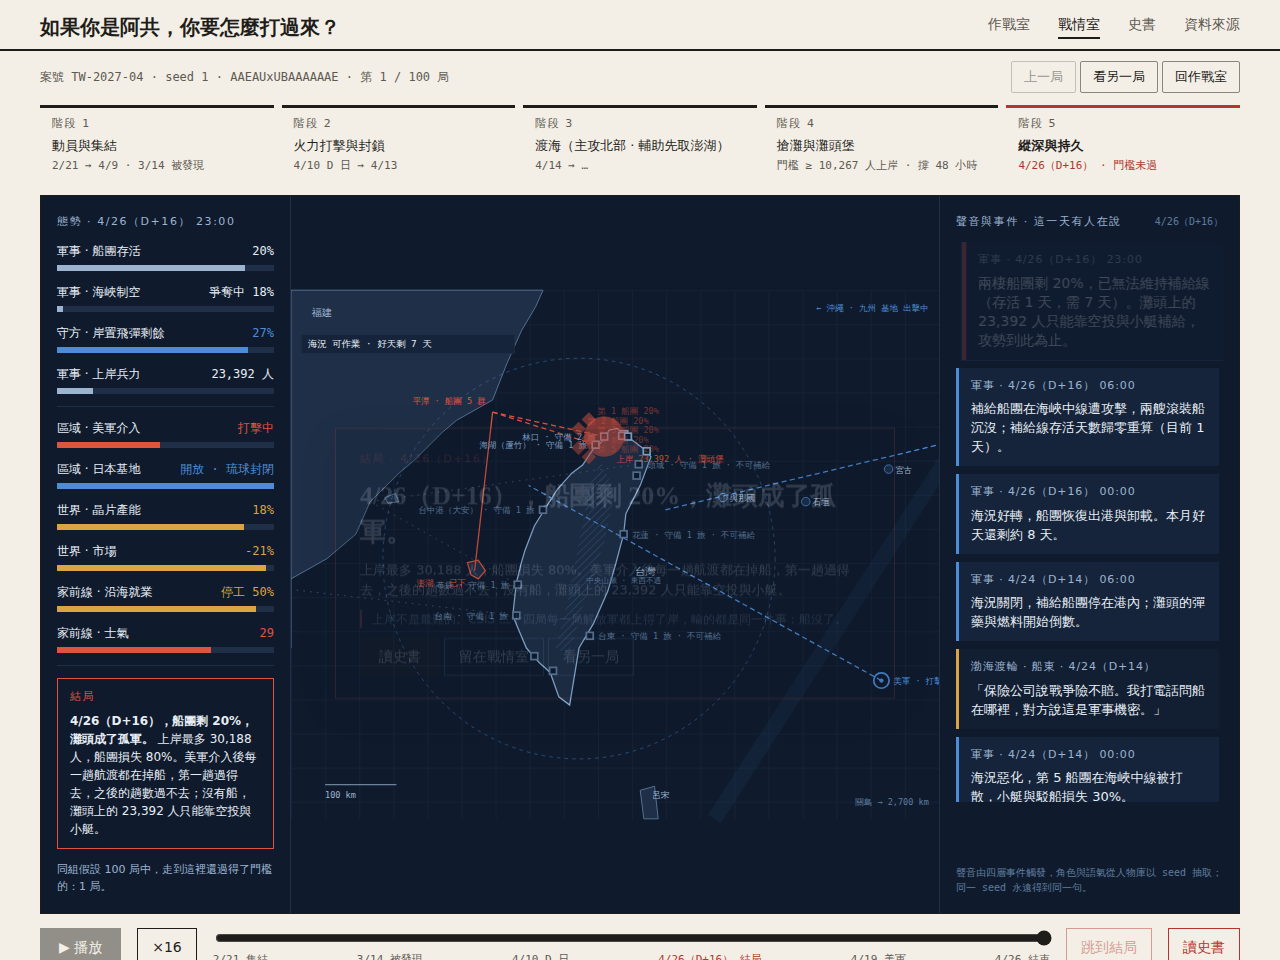
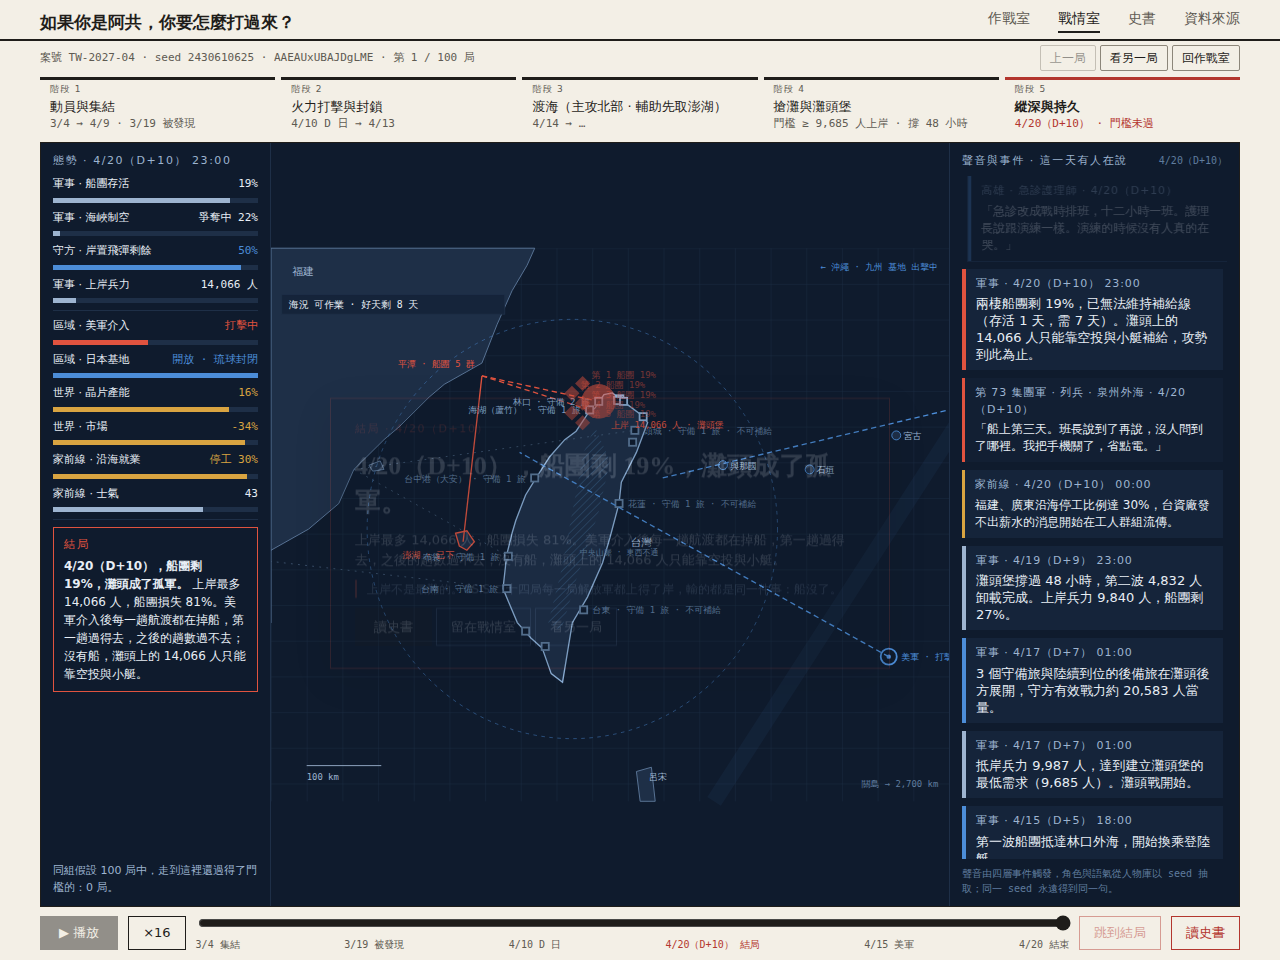
戰情室一屏放下、手機取捨；每次下令換一組 seed
- 桌機：戰情室頁面固定視窗高、不捲動，儀表、地圖、事件流、時間軸同時可見；頁尾隱藏、間距縮小；視窗高度不足 760 時收起階段列與案號列
- 手機：單欄，地圖優先，次要儀表（制空、日本基地、晶片、市場）隱藏，事件流限高，階段列改橫向可捲，結局卡貼底
- 每次下令以 crypto 隨機一組 seed 起點：同一組假設再跑一次會得到不同的局；seed 仍印在畫面與分享編碼，可重現
- smoke 檢查戰情室在 1280×960 無頁面捲動

Claude-Session: https://claude.ai/code/session_012N7fRCwrh4WELHws2biFXP

diff --git a/src/ui/situation/Situation.tsx b/src/ui/situation/Situation.tsx
@@ -18,9 +18,9 @@ const dl = (d: number) => (d < 0 ? `D${d}` : `D+${d}`);
 const pct = (x: number) => `${Math.round(x * 100)}%`;
 const fmt = (n: number) => Math.round(n).toLocaleString('zh-Hant-TW');
 
-function Gauge({ label, value, text, color }: { label: string; value: number; text: string; color?: string | undefined }) {
+function Gauge({ label, value, text, color, sec }: { label: string; value: number; text: string; color?: string | undefined; sec?: boolean }) {
   return (
-    <div class="g">
+    <div class={`g${sec ? ' sec' : ''}`}>
       <div class="gh">
         <span>{label}</span>
         <span class="mono" style={color ? { color } : undefined}>
@@ -141,7 +141,7 @@ export function Situation() {
             態勢 · {dateLabel(a.month, s.day)} {String(s.hour).padStart(2, '0')}:00
           </div>
           <Gauge label="軍事 · 船團存活" value={avgStrength(s)} text={pct(avgStrength(s))} />
-          <Gauge label="軍事 · 海峽制空" value={s.military.airControl} text={s.military.airControl === 0 ? '未開戰' : s.military.airControl > 0.5 ? `局部 ${pct(s.military.airControl)}` : `爭奪中 ${pct(s.military.airControl)}`} />
+          <Gauge sec label="軍事 · 海峽制空" value={s.military.airControl} text={s.military.airControl === 0 ? '未開戰' : s.military.airControl > 0.5 ? `局部 ${pct(s.military.airControl)}` : `爭奪中 ${pct(s.military.airControl)}`} />
           <Gauge label="守方 · 岸置飛彈剩餘" value={s.military.twCoastalMissiles} text={pct(s.military.twCoastalMissiles)} color="#4C8DD8" />
           <Gauge label="軍事 · 上岸兵力" value={s.military.troopsAshore / (required * 1.5)} text={`${fmt(s.military.troopsAshore)} 人`} />
           <div class="phr" />
@@ -151,9 +151,9 @@ export function Situation() {
             text={usEntry === null ? '不介入' : s.regional.usEngaged ? '打擊中' : `D+${usEntry} · 剩 ${Math.max(0, usEntry - s.day)} 天`}
             color="#E0533F"
           />
-          <Gauge label="區域 · 日本基地" value={s.regional.japanBases ? 1 : 0.2} text={s.regional.japanBases ? (s.regional.ryukyuClosed ? '開放 · 琉球封閉' : '開放') : '中立'} color="#4C8DD8" />
-          <Gauge label="世界 · 晶片產能" value={s.world.chipOutput} text={pct(s.world.chipOutput)} color="#D9A441" />
-          <Gauge label="世界 · 市場" value={1 + s.world.marketShock} text={s.world.marketShock === 0 ? '持平' : `${Math.round(s.world.marketShock * 100)}%`} color="#D9A441" />
+          <Gauge sec label="區域 · 日本基地" value={s.regional.japanBases ? 1 : 0.2} text={s.regional.japanBases ? (s.regional.ryukyuClosed ? '開放 · 琉球封閉' : '開放') : '中立'} color="#4C8DD8" />
+          <Gauge sec label="世界 · 晶片產能" value={s.world.chipOutput} text={pct(s.world.chipOutput)} color="#D9A441" />
+          <Gauge sec label="世界 · 市場" value={1 + s.world.marketShock} text={s.world.marketShock === 0 ? '持平' : `${Math.round(s.world.marketShock * 100)}%`} color="#D9A441" />
           <Gauge label="家前線 · 沿海就業" value={1 - s.homefront.coastalShutdown} text={`停工 ${pct(s.homefront.coastalShutdown)}`} color="#D9A441" />
           <Gauge label="家前線 · 士氣" value={s.homefront.morale / 100} text={String(Math.round(s.homefront.morale))} color={s.homefront.morale < 40 ? '#E0533F' : undefined} />
           <div class="phr" />

diff --git a/src/ui/theme.css b/src/ui/theme.css
@@ -244,3 +244,55 @@ button { font: inherit; color: inherit; background: none; border: 0; padding: 0;
 .prose .appendix h2 { font-size: 14px; font-family: var(--sans); font-weight: 600; margin: 0 0 6px; color: var(--ink); }
 .prose .appendix ol { margin: 0; padding-left: 20px; }
 @media (max-width: 720px) { .verdict { margin: 0 16px; } .verdict-h { font-size: 20px; line-height: 28px; } }
+
+/* 戰情室：一屏放下（桌機），手機取捨 */
+.page.fit { height: 100vh; overflow: hidden; }
+.page.fit .hdr.compact { padding: 8px 40px 6px; }
+.page.fit .hdr.compact h1 { font-size: 17px; }
+.ftr.hide-fit { display: none; }
+.page.fit .situation { flex: 1; min-height: 0; }
+.page.fit .sit-meta { padding: 4px 40px 0; font-size: 11px; }
+.page.fit .sit-meta .pill { padding: 3px 9px; font-size: 12px; }
+.page.fit .steps { padding: 6px 40px; gap: 6px; }
+.page.fit .step { padding: 3px 10px; gap: 0; }
+.page.fit .step .lbl { font-size: 9px; }
+.page.fit .step > span:nth-child(2) { font-size: 12px; }
+.page.fit .panel { flex: 1; min-height: 0; grid-template-columns: 230px minmax(0, 1fr) 290px; }
+.page.fit .pcol { padding: 10px 12px; gap: 7px; overflow: auto; }
+.page.fit .g .gh { font-size: 11px; }
+.page.fit .gbar, .page.fit .gbar i { height: 5px; }
+.page.fit .gatebox { padding: 8px 10px; gap: 4px; }
+.page.fit .gatebox > div { font-size: 11.5px; line-height: 17px; }
+.page.fit .pcol.left > div:last-child { font-size: 10px; line-height: 15px; }
+.page.fit .feed { max-height: none; }
+.page.fit .vc { padding: 7px 10px; gap: 3px; }
+.page.fit .say { font-size: 12px; line-height: 17px; }
+.page.fit .vc.headline .say { font-size: 13px; }
+.page.fit .timeline { padding: 6px 40px 8px; gap: 10px; }
+.page.fit .tbtn { height: 34px; font-size: 13px; }
+.page.fit .tlabels { font-size: 10px; }
+@media (max-height: 760px) {
+  .page.fit .steps { display: none; }
+  .page.fit .sit-meta { display: none; }
+}
+@media (max-width: 1100px) {
+  .page.fit .panel { grid-template-columns: 210px minmax(0, 1fr); }
+  .page.fit .pcol.right { max-height: 32vh; }
+}
+@media (max-width: 720px) {
+  .page.fit { height: auto; overflow: visible; }
+  .page.fit .panel { grid-template-columns: minmax(0, 1fr); }
+  .page.fit .pmap { min-height: 46vw; max-height: 300px; }
+  .page.fit .g.sec { display: none; }
+  .page.fit .pcol.left { max-height: none; }
+  .page.fit .pcol.right { max-height: 240px; }
+  .page.fit .steps { display: flex; flex-direction: row; overflow-x: auto; gap: 4px; padding: 6px 16px; }
+  .page.fit .step { flex: 0 0 auto; border-left: 0; border-top: 3px solid var(--rule); padding: 2px 8px; }
+  .page.fit .step .lbl { display: none; }
+  .page.fit .step > span:nth-child(3) { display: none; }
+  .page.fit .step.done { border-top-color: var(--ink); }
+  .page.fit .step.now, .page.fit .step.fail { border-top-color: var(--red); }
+  .page.fit .sit-meta { display: flex; }
+  .page.fit .tlabels span:nth-child(2), .page.fit .tlabels span:nth-child(5) { display: none; }
+  .endcard { position: fixed; top: auto; bottom: 12px; left: 12px; right: 12px; width: auto; transform: none; }
+}

diff --git a/src/ui/app.tsx b/src/ui/app.tsx
@@ -14,7 +14,9 @@ async function order(): Promise<void> {
   error.value = null;
   const n = runCount.value;
   progress.value = { done: 0, total: n };
-  const seeds = Array.from({ length: n }, (_, i) => 1 + i);
+  // 每次下令換一組 seed（同假設再跑一次會是不同的局；seed 印在畫面與分享編碼上，可重現）
+  const base = (crypto.getRandomValues(new Uint32Array(1))[0] ?? 1) >>> 0;
+  const seeds = Array.from({ length: n }, (_, i) => ((base + i) >>> 0) || 1);
   try {
     const result = await runBatch(assumptions.value, seeds, (done, total) => {
       progress.value = { done, total };
@@ -42,7 +44,7 @@ function NavLink({ to, label }: { to: Screen; label: string }) {
 export function App() {
   if (recent.value === null) void loadRecent();
   return (
-    <div class="page">
+    <div class={`page${screen.value === 'situation' ? ' fit' : ''}`}>
       <header class={`hdr${screen.value === 'situation' || screen.value === 'chronicle' ? ' compact' : ''}`}>
         <div style="display:flex;flex-direction:column;gap:6px">
           <div class="lbl">台海兵推 · 教育版 · 第一版（單人 · 全本機運算 · 不上傳任何資料）</div>
@@ -59,7 +61,7 @@ export function App() {
       {screen.value === 'situation' && <Situation />}
       {screen.value === 'chronicle' && <Chronicle />}
       {screen.value === 'sources' && <Sources />}
-      <footer class="ftr">
+      <footer class={`ftr${screen.value === 'situation' ? ' hide-fit' : ''}`}>
         <span>所有參數附公開來源。超出公開資料上限的設定以紅色標示。本模擬為教育用途的簡化模型，不代表任何官方評估。</span>
         <span class="mono">引擎 {ENGINE_VERSION} · 決定性 seed</span>
       </footer>

diff --git a/scripts/smoke.ts b/scripts/smoke.ts
@@ -40,6 +40,9 @@ try {
   await page.getByTestId('order').click();
   await page.locator('.situation').waitFor({ timeout: 60_000 });
   const ms = Date.now() - t0;
+  // 戰情室要一屏放下（1280×960）
+  const fit = await page.evaluate(() => document.documentElement.scrollHeight - document.documentElement.clientHeight);
+  if (fit > 2) throw new Error(`戰情室一屏放不下，多出 ${fit}px`);
   // 戰情室：播放 → 事件增加；跳到結局 → 門檻框變結局；時間軸可拖
   const before = await page.locator('.feed .vc').count();
   // 進戰情室會自動播放；切 ×16 加速
